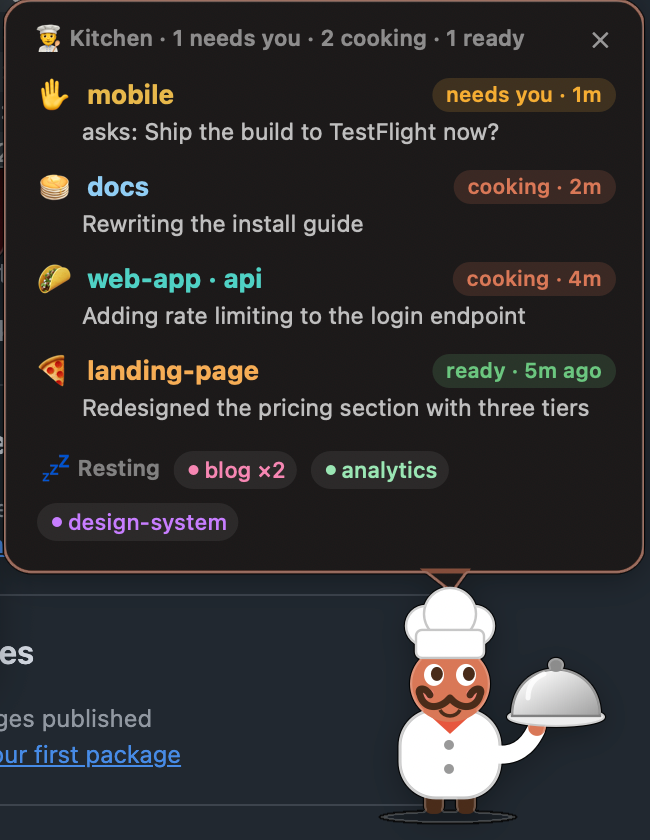
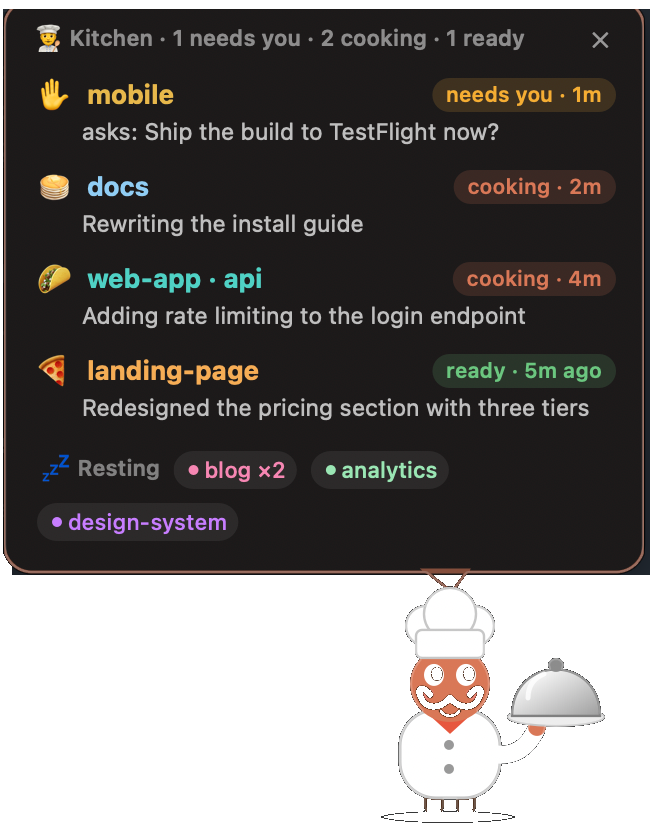
Landing page, social preview and search-friendly README
- docs/index.html: a GitHub Pages landing page with a search-friendly title
  and description, Open Graph and Twitter cards, SoftwareApplication and
  FAQPage structured data, and an FAQ written around real searches
- docs/sitemap.xml and robots.txt
- docs/social-preview.png (1280x640) for link previews
- README opens with what people search for and gains an FAQ
- Screenshots cleaned of the page they were taken over

Changed region(s): [[0.0, 0.0, 1.0, 1.0]]

diff --git a/docs/index.html b/docs/index.html
@@ -1,0 +1,133 @@
+<!doctype html>
+<html lang="en">
+<head>
+<meta charset="utf-8">
+<meta name="viewport" content="width=device-width, initial-scale=1">
+<title>order-up: a Claude Code mod that tells you when a session is done</title>
+<meta name="description" content="order-up is a free, open-source Claude Code mod for macOS. A tiny chef pops up when a Claude Code session finishes or needs you, lets you answer its questions without switching tabs, and jumps you back to the right terminal tab.">
+<meta name="keywords" content="Claude Code mod, Claude Code mods, Claude Code plugin, Claude Code notification, notify when Claude Code finishes, Claude Code macOS, Claude Code menu bar, multiple Claude Code sessions">
+<link rel="canonical" href="https://yugantar7.github.io/order-up/">
+<meta property="og:type" content="website">
+<meta property="og:site_name" content="order-up">
+<meta property="og:title" content="order-up: a Claude Code mod that tells you when a session is done">
+<meta property="og:description" content="A tiny chef pops up on your Mac when a Claude Code session finishes or needs you. Answer from the chef, snooze, or click to jump back to that tab.">
+<meta property="og:url" content="https://yugantar7.github.io/order-up/">
+<meta property="og:image" content="https://yugantar7.github.io/order-up/social-preview.png">
+<meta property="og:image:width" content="1280">
+<meta property="og:image:height" content="640">
+<meta name="twitter:card" content="summary_large_image">
+<meta name="twitter:title" content="order-up: a Claude Code mod that tells you when a session is done">
+<meta name="twitter:description" content="A tiny chef pops up on your Mac when a Claude Code session finishes or needs you.">
+<meta name="twitter:image" content="https://yugantar7.github.io/order-up/social-preview.png">
+<script type="application/ld+json">
+{
+  "@context": "https://schema.org",
+  "@type": "SoftwareApplication",
+  "name": "order-up",
+  "description": "A Claude Code mod for macOS: a tiny chef pops up when a Claude Code session finishes or needs you, lets you answer its questions without switching tabs, and jumps you back to the right terminal tab.",
+  "applicationCategory": "DeveloperApplication",
+  "operatingSystem": "macOS",
+  "offers": { "@type": "Offer", "price": "0", "priceCurrency": "USD" },
+  "license": "https://opensource.org/licenses/MIT",
+  "url": "https://yugantar7.github.io/order-up/",
+  "downloadUrl": "https://github.com/yugantar7/order-up",
+  "codeRepository": "https://github.com/yugantar7/order-up",
+  "image": "https://yugantar7.github.io/order-up/social-preview.png"
+}
+</script>
+<script type="application/ld+json">
+{
+  "@context": "https://schema.org",
+  "@type": "FAQPage",
+  "mainEntity": [
+    { "@type": "Question", "name": "How do I get notified when Claude Code finishes?",
+      "acceptedAnswer": { "@type": "Answer", "text": "Install the order-up mod. When a Claude Code turn that ran for a while (30 seconds by default) finishes in a terminal tab you are not looking at, a chef pops up on your Mac with the result; click it to jump back to that tab." } },
+    { "@type": "Question", "name": "What is a Claude Code mod?",
+      "acceptedAnswer": { "@type": "Answer", "text": "A mod changes Claude Code itself: how it looks, how it behaves, or what it can do. Mods are plugins with hooks; order-up is one, installed with two commands." } },
+    { "@type": "Question", "name": "Can I answer Claude Code's questions without switching tabs?",
+      "acceptedAnswer": { "@type": "Answer", "text": "Yes. When a session asks a question with choices, order-up shows them as buttons on the chef; click one and the session gets your answer. Permission prompts still need the tab." } },
+    { "@type": "Question", "name": "How do I keep track of many Claude Code sessions at once?",
+      "acceptedAnswer": { "@type": "Answer", "text": "Click order-up's menu bar chef to see the kitchen: every Claude Code session, whether it is cooking, needs you, is ready or resting, and what it is doing. Click one to jump to it." } },
+    { "@type": "Question", "name": "Does order-up work on Windows or Linux?",
+      "acceptedAnswer": { "@type": "Answer", "text": "No, it is macOS only: the chef is a native Mac window. It works with Terminal.app, iTerm2, Ghostty, Warp, VS Code, Cursor and the Claude desktop app." } }
+  ]
+}
+</script>
+<style>
+  :root { --bg: #141212; --card: #1c1a1a; --ink: #f2eeea; --soft: #b9b2ab; --dim: #8a837d; --accent: #d97857; --line: #2c2826; }
+  * { box-sizing: border-box; }
+  body { margin: 0; background: var(--bg); color: var(--ink); font: 17px/1.6 -apple-system, BlinkMacSystemFont, "Segoe UI", Helvetica, Arial, sans-serif; }
+  main { max-width: 980px; margin: 0 auto; padding: 56px 20px 80px; }
+  header { display: grid; grid-template-columns: 1.1fr 0.9fr; gap: 40px; align-items: center; }
+  h1 { font-size: 52px; line-height: 1.05; margin: 0 0 12px; letter-spacing: -0.02em; }
+  h1 span { display: block; font-size: 26px; color: var(--accent); font-weight: 600; letter-spacing: 0; margin-top: 10px; }
+  p.lead { color: var(--soft); font-size: 19px; margin: 18px 0 26px; }
+  .cta { display: inline-block; background: var(--accent); color: #fff; padding: 11px 20px; border-radius: 10px; text-decoration: none; font-weight: 600; margin-right: 10px; }
+  .cta.alt { background: transparent; border: 1px solid var(--line); color: var(--ink); }
+  header img { width: 100%; height: auto; border-radius: 14px; }
+  h2 { font-size: 28px; margin: 64px 0 16px; letter-spacing: -0.01em; }
+  ul.features { list-style: none; padding: 0; display: grid; grid-template-columns: 1fr 1fr; gap: 14px 28px; }
+  ul.features li { background: var(--card); border: 1px solid var(--line); border-radius: 12px; padding: 16px 18px; color: var(--soft); }
+  ul.features b { color: var(--ink); display: block; margin-bottom: 4px; }
+  .shots { display: grid; grid-template-columns: 1fr 1fr; gap: 24px; align-items: start; }
+  .shots figure { margin: 0; }
+  .shots img { width: 100%; height: auto; border-radius: 12px; }
+  figcaption { color: var(--dim); font-size: 14px; margin-top: 8px; }
+  pre { background: var(--card); border: 1px solid var(--line); border-radius: 12px; padding: 16px 18px; overflow-x: auto; font: 15px/1.6 ui-monospace, SFMono-Regular, Menlo, monospace; color: var(--ink); }
+  details { background: var(--card); border: 1px solid var(--line); border-radius: 12px; padding: 14px 18px; margin-bottom: 10px; }
+  summary { cursor: pointer; font-weight: 600; }
+  details p { color: var(--soft); margin: 10px 0 0; }
+  a { color: var(--accent); }
+  footer { margin-top: 64px; color: var(--dim); font-size: 14px; border-top: 1px solid var(--line); padding-top: 20px; }
+  @media (max-width: 760px) {
+    header, .shots, ul.features { grid-template-columns: 1fr; }
+    h1 { font-size: 40px; }
+  }
+</style>
+</head>
+<body>
+<main>
+  <header>
+    <div>
+      <h1>order-up <span>a Claude Code mod that tells you when a session is done</span></h1>
+      <p class="lead">Running several Claude Code sessions at once? When one finishes, or needs you, in a terminal tab you're not looking at, a tiny chef pops up on your Mac with the order. Answer it right there, snooze it, or click to jump back to that exact tab.</p>
+      <a class="cta" href="#install">Install in two commands</a>
+      <a class="cta alt" href="https://github.com/yugantar7/order-up">View on GitHub</a>
+    </div>
+    <img src="orders.png" width="645" height="790" alt="The order-up chef with four Claude Code orders: a session that needs you, a burnt dish and two cooked ones, each with its bill">
+  </header>
+
+  <h2>What it does</h2>
+  <ul class="features">
+    <li><b>Order up</b>A Claude Code turn finishes in a tab you're not watching: the chef rings a bell and shows what got done.</li>
+    <li><b>Answer from the chef</b>A session asks you a question with choices: click an answer on the chef, no tab switching.</li>
+    <li><b>Burnt dish</b>The turn failed or its last command broke: the dish comes out burnt, so you know at a glance.</li>
+    <li><b>The bill</b>Each order shows time taken, cost, files changed and commands run.</li>
+    <li><b>The kitchen</b>Click the menu bar chef to see every Claude Code session: cooking, needs you, ready or resting.</li>
+    <li><b>Snooze</b>Not now? Snooze an order for 10 minutes and the chef brings it back.</li>
+  </ul>
+
+  <h2>A closer look</h2>
+  <div class="shots">
+    <figure><img src="answer.png" width="644" height="930" alt="Claude Code questions answered from the chef: short answers as pills, long answers as full-width buttons" loading="lazy"><figcaption>Answer Claude Code's questions from the chef. Past four orders, the list scrolls.</figcaption></figure>
+    <figure><img src="kitchen.png" width="650" height="840" alt="The kitchen: every Claude Code session with its state and what it is doing" loading="lazy"><figcaption>The kitchen: every Claude Code session at a glance.</figcaption></figure>
+  </div>
+
+  <h2 id="install">Install</h2>
+  <p>Needs macOS and Apple's Command Line Tools (<code>xcode-select --install</code>). In a terminal:</p>
+  <pre>claude plugin marketplace add yugantar7/order-up
+claude plugin install order-up@order-up</pre>
+  <p>Then start a new Claude Code session and run <code>/order-up setup</code>. It asks a few questions, builds the chef and serves a test order. Works with Terminal.app and iTerm2 (jumps to the exact tab), and Ghostty, Warp, VS Code, Cursor and the Claude desktop app (brings the window forward).</p>
+
+  <h2>Questions</h2>
+  <details><summary>How do I get notified when Claude Code finishes?</summary><p>Install order-up. When a Claude Code turn that ran for a while (30 seconds by default) finishes in a tab you're not looking at, the chef pops up with the result; click it to jump back to that tab.</p></details>
+  <details><summary>What is a Claude Code mod?</summary><p>A mod changes Claude Code itself: how it looks, how it behaves, or what it can do. Mods are plugins with hooks; order-up is one, installed with two commands.</p></details>
+  <details><summary>Can I answer Claude Code's questions without switching tabs?</summary><p>Yes. When a session asks a question with choices, order-up shows them as buttons; click one and the session gets your answer. Permission prompts still need the tab.</p></details>
+  <details><summary>How do I keep track of many Claude Code sessions at once?</summary><p>Click the menu bar chef to see the kitchen: every session, whether it's cooking, needs you, is ready or resting, and what it's doing. Click one to jump to it.</p></details>
+  <details><summary>Does it work on Windows or Linux?</summary><p>No, order-up is macOS only: the chef is a native Mac window.</p></details>
+  <details><summary>Is it free? What does it collect?</summary><p>Free and open source (MIT). It makes no network calls of its own and only reads and writes <code>~/.claude/order-up/</code>.</p></details>
+
+  <footer>order-up is open source under the MIT license · <a href="https://github.com/yugantar7/order-up">github.com/yugantar7/order-up</a> · <a href="https://github.com/yugantar7/order-up/releases">Releases</a> · <a href="https://github.com/yugantar7/order-up/issues">Ideas &amp; issues</a> · Not affiliated with Anthropic.</footer>
+</main>
+</body>
+</html>

diff --git a/README.md b/README.md
@@ -1,6 +1,8 @@
 # 🍳 order-up
 
-**A tiny chef for Claude Code.** When a session finishes, or needs you, in a terminal tab you're not looking at, a chef pops up in the corner of your Mac with the order. Click it and you're back in that exact tab.
+**A Claude Code mod that tells you when a session is done.** When a Claude Code session finishes, or needs you, in a terminal tab you're not looking at, a tiny chef pops up in the corner of your Mac with the order. Answer it right there, snooze it, or click it and you're back in that exact tab.
+
+🌐 [yugantar7.github.io/order-up](https://yugantar7.github.io/order-up/)
 
 <p align="center"><img src="docs/orders.png" width="420" alt="The order-up chef with four orders: a session that needs you, a burnt dish and two cooked ones, each with its bill"></p>
 
@@ -26,6 +28,16 @@ Built for people who run several Claude Code sessions at once and lose track of 
 <td align="center" valign="top"><img src="docs/kitchen.png" width="300" alt="The kitchen: a session that needs you, two cooking, one ready, and resting sessions as chips"><br><sub><b>The kitchen</b>: click the menu bar chef to see every session</sub></td>
 </tr>
 </table>
+
+## FAQ
+
+**How do I get notified when Claude Code finishes?** Install order-up: when a Claude Code turn that ran for a while finishes in a tab you're not looking at, the chef pops up with the result. Click it to jump back.
+
+**What is a Claude Code mod?** A mod changes Claude Code itself (how it looks, behaves, or what it can do). Mods are plugins with hooks; order-up is one.
+
+**Can I answer Claude Code's questions without switching tabs?** Yes, for questions with choices: they show as buttons on the chef. Permission prompts still need the tab.
+
+**How do I keep track of many Claude Code sessions?** Click the menu bar chef to see the kitchen: every session, its state and what it's doing.
 
 ## Install
 
